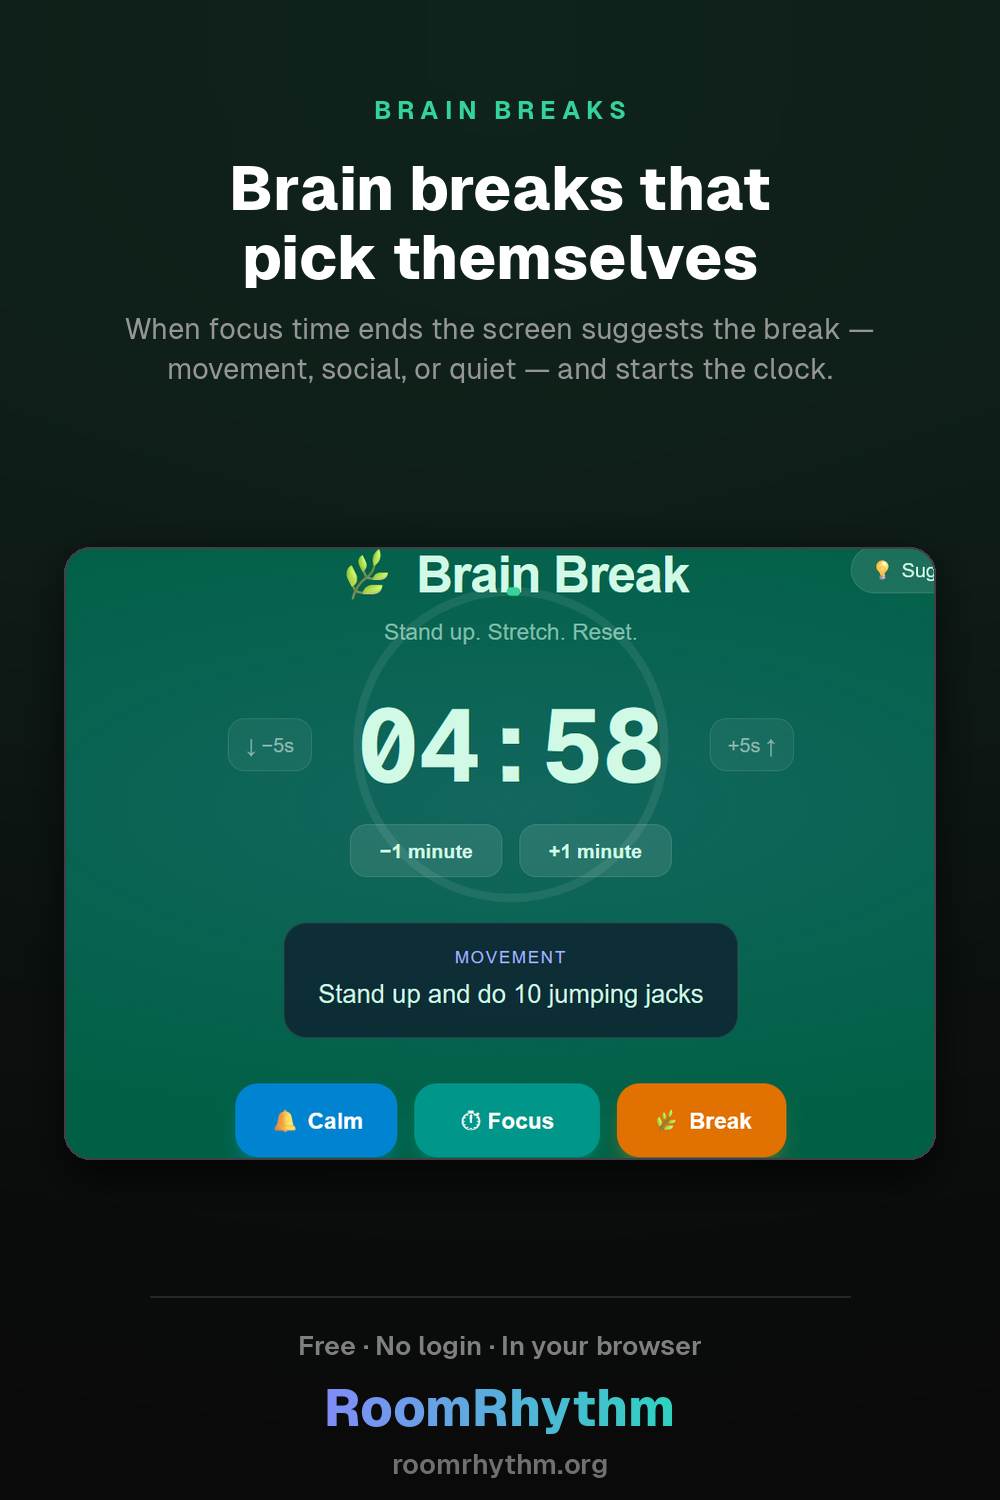
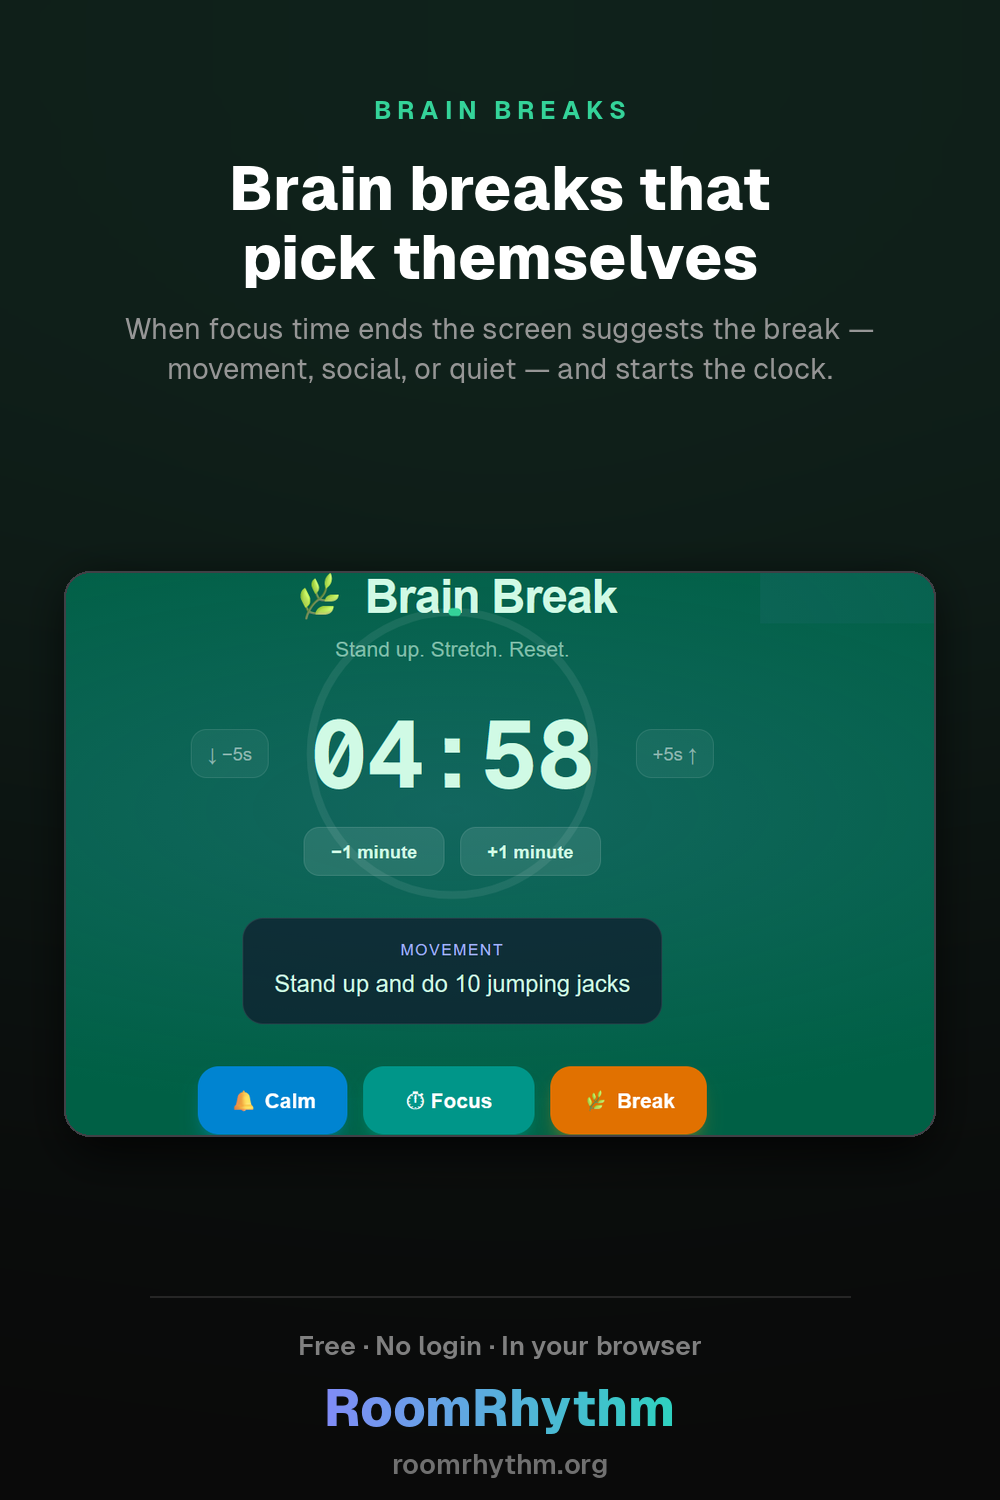
Reserve the timer ring's footprint; paint the feature pill out of pins
The ring is absolutely positioned, so its box sized itself to the text
(~72px) and let a 240px ring overflow 84px above and below. On a short
window that overflow ran through the mode heading - 'Brain Break' sat on
the arc. The box now reserves 240x240, so the ring can never collide
with the heading or the time controls.

Pins gain patch_out(): clone clean background over a UI element instead
of cropping past it. The 'Suggest a Feature' pill sits top-right in
every room, and cropping far enough to clear it pulled the frame
off-centre from the clock.

Changed region(s): [[0.062, 0.6133, 0.961, 0.7973], [0.062, 0.3373, 0.961, 0.5827], [0.744, 0.4907, 0.775, 0.5213]]

diff --git a/app/page.tsx b/app/page.tsx
@@ -1309,7 +1309,14 @@ function ClassroomApp({ onBack, shared }: { onBack: () => void; shared?: Classro
               <button onClick={() => adjustSeconds(-5)} title="Five seconds back — or press the down arrow key"
                 className={ADJ_BTN}>↓ −5s</button>
             )}
-            <div className="relative flex items-center justify-center">
+            {/*
+              The ring is absolutely positioned, so this box used to size
+              itself to the TEXT (~72px tall) and let a 240px ring overflow 84px
+              above and below it. On a short window that overflow ran straight
+              through the mode heading — "🌿 Brain Break" sat on the arc.
+              Reserving the ring's own footprint keeps the layout honest.
+            */}
+            <div className="relative flex h-[240px] w-[240px] items-center justify-center">
               <svg width="240" height="240" className="absolute">
                 <circle cx="120" cy="120" r="108" fill="none" stroke="rgba(255,255,255,0.08)" strokeWidth="6" />
                 <circle cx="120" cy="120" r="108" fill="none"
@@ -1785,7 +1792,14 @@ function CorporateApp({ onBack }: { onBack: () => void }) {
               <button onClick={() => adjustSeconds(-5)} title="Five seconds back — or press the down arrow key"
                 className={ADJ_BTN}>↓ −5s</button>
             )}
-            <div className="relative flex items-center justify-center">
+            {/*
+              The ring is absolutely positioned, so this box used to size
+              itself to the TEXT (~72px tall) and let a 240px ring overflow 84px
+              above and below it. On a short window that overflow ran straight
+              through the mode heading — "🌿 Brain Break" sat on the arc.
+              Reserving the ring's own footprint keeps the layout honest.
+            */}
+            <div className="relative flex h-[240px] w-[240px] items-center justify-center">
               <svg width="240" height="240" className="absolute">
                 <circle cx="120" cy="120" r="108" fill="none" stroke="rgba(255,255,255,0.08)" strokeWidth="6" />
                 <circle cx="120" cy="120" r="108" fill="none"

diff --git a/marketing/render/rr_shot_pins.py b/marketing/render/rr_shot_pins.py
@@ -75,7 +75,7 @@ def footer(img, cta="Free · No login · In your browser"):
 
 # ── The screenshot placer ──────────────────────────────────────────────────
 def place_shot(img, filename, region, crop=None, radius=26, max_w=SHOT_MAX_W,
-               caption_room=64):
+               caption_room=64, patches=()):
     """
     Drop a screenshot in as a framed window: rounded corners, hairline border,
     soft shadow underneath. `crop` is (l, t, r, b) as 0..1 fractions of the
@@ -90,6 +90,8 @@ def place_shot(img, filename, region, crop=None, radius=26, max_w=SHOT_MAX_W,
     Returns the bottom y of the placed image.
     """
     src = Image.open(os.path.join(SHOTS, filename)).convert("RGB")
+    for box in patches:                      # before cropping — boxes are source pixels
+        patch_out(src, box, from_below=200)
     if crop:
         l, t, r, b = crop
         src = src.crop((int(src.width * l), int(src.height * t),
@@ -120,6 +122,27 @@ def place_shot(img, filename, region, crop=None, radius=26, max_w=SHOT_MAX_W,
     ImageDraw.Draw(img).rounded_rectangle(
         [x, top, x + w - 1, top + h - 1], radius=radius, outline=(64, 64, 70), width=2)
     return top + h
+
+
+def patch_out(src, box, from_below=None):
+    """
+    Clone clean background over a UI element that shouldn't be in a pin.
+
+    The "Suggest a Feature" pill lives in the top-right of every room. Cropping
+    it away pulls the frame off-centre, and leaving a sliver of it looks like a
+    mistake. So we copy a clean patch of the same gradient over it — the room
+    backgrounds are smooth vertical gradients, so a strip taken from directly
+    below the pill matches almost exactly.
+
+    `box` is (l, t, r, b) in SOURCE pixels. `from_below` is how far down to
+    take the donor strip; defaults to just under the box.
+    """
+    l, t, r, b = box
+    h = b - t
+    dy = from_below if from_below is not None else h + 8
+    donor = src.crop((l, t + dy, r, b + dy)).resize((r - l, h), Image.LANCZOS)
+    src.paste(donor, (l, t))
+    return src
 
 
 def caption(img, text, y, size=27):
@@ -172,7 +195,10 @@ def pin_break():
     y = headline(img, ["Brain breaks that", "pick themselves"], 152)
     subline(img, "When focus time ends the screen suggests the break — movement, "
                  "social, or quiet — and starts the clock.", y + 22)
-    b = place_shot(img, BREAK, (470, 1248), crop=(0.02, 0.03, 0.86, 0.82), caption_room=10)
+    # Paint out the "Suggest a Feature" pill rather than cropping it away —
+    # cropping past it pulled the frame off-centre from the clock.
+    b = place_shot(img, BREAK, (470, 1248), crop=(0.045, 0.03, 0.955, 0.82),
+                   caption_room=10, patches=[(845, 0, 1096, 84)])
     footer(img)
     save(img, f"{OUT}/pin-7-brain-breaks.png")
 
